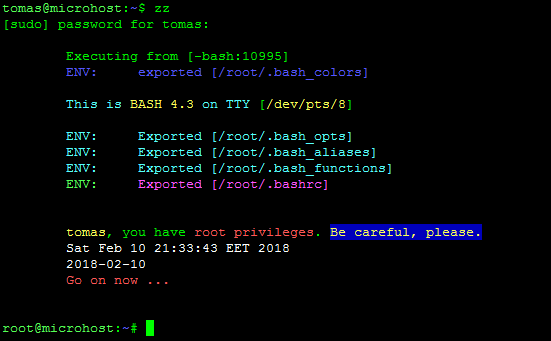
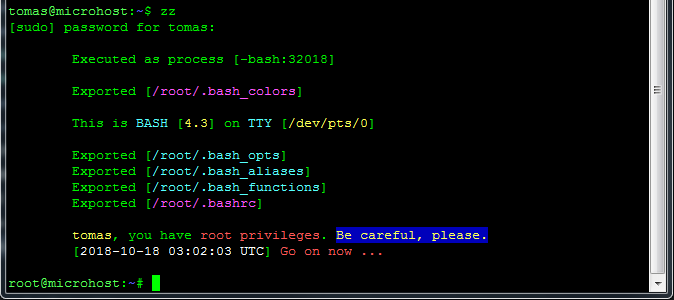
Couple of small improvements and documentation update

diff --git a/README.md b/README.md
@@ -1,27 +1,28 @@
-# Bash Files #
-
 [![Standard Version](https://img.shields.io/badge/release-standard%20version-brightgreen.svg?style=plastic)](https://github.com/conventional-changelog/standard-version)
 [![License](https://img.shields.io/badge/license-MIT-green.svg?style=flat)](https://github.com/tbaltrushaitis/bash-files/blob/master/LICENSE)
+[![Dependencies Status](https://david-dm.org/tbaltrushaitis/bash-files/status.svg)](https://david-dm.org/tbaltrushaitis/bash-files)
 [![Contributors Count](https://img.shields.io/github/contributors/tbaltrushaitis/bash-files.svg)](https://github.com/tbaltrushaitis/bash-files/graphs/contributors)
+
+# Bash Files #
 
 <p align="center">
   <img src="assets/img/bash-logo-web.png" alt="Bash Logo" />
 </p>
 
-Set of useful configuration tweak-files for OS Linux shell
+Stack of useful .bashrc configs for OS Linux shell
 
-`bash` `tips & tricks` `linux`
+`bashrc-configs` `bash-prompt` `bash-hacks` `bashrc` `bash-script` `userscripts` `tips-and-tricks` `configuration` `bash` `bash-scripting` `bash-alias` `bash-profile` `shell-scripts` `colorization` `tips-tricks` `cli-utilities` `linux-shell` `bash-utils` `bash-tool`
 
 ---
 
-### How to setup this stack of useful .bashrc configs ###
-- Installation is easy so k:koala:ala can do it
-
-#### It provides: ####
+#### Provides: ####
 - [x] colorful console output
 - [x] easy-to-remember aliases for most of commands with their top-used params
-- [x] will economize up to 70% of your keyboard input time
+- [x] up to 70% economy of your keyboard input time
 - [x] collect and gather basic system stats for fast incidents investigations
+
+### How to setup this stack of useful .bashrc configs ###
+- Installation is easy so koala can do it :koala:
 
 ---
 
@@ -39,6 +40,10 @@ $ APP_NAME=bash-files \
 $ make
 ```
 
+<div align="center">
+  <img src="assets/img/make.png" alt="Output of make command"/>
+</div>
+
 ### Setup for root ###
 ```shell
 $ make root
@@ -49,14 +54,12 @@ $ make root
 $ make all
 ```
 
-![Setup View](assets/img/make-all.png)
-
 ---
 
 ## Enjoy! ##
 
 <div align="center">
-  <img max-height="500px" max-width="500px" src="assets/img/user-login-and-sudo.png" />
+  <img max-width="675px" max-height="600px" src="assets/img/user-login-and-sudo.png" />
 </div>
 
 ---
@@ -66,28 +69,28 @@ $ make all
 <details>
   <summary>visits - Provide list of top ip-addresses extracted from given log file</summary>
   <div align="center">
-    <img src="assets/img/alias-visits.png" />
+    <img max-width="795px" max-height="792px" src="assets/img/alias-visits.png" />
   </div>
 </details>
 
 <details>
   <summary>zz - Become root</summary>
   <div align="center">
-    <img src="assets/img/alias-zz.png" />
+    <img max-width="674px" max-height="300px" src="assets/img/alias-zz.png" />
   </div>
 </details>
 
 <details>
   <summary>qq - Logout from current session</summary>
   <div align="center">
-    <img max-height="500px" max-width="500px" src="assets/img/alias-qq-logout.png" />
+    <img max-height="795px" max-width="312px" src="assets/img/alias-qq-logout.png" />
   </div>
 </details>
 
 <details>
   <summary>ii - Show basic hardware and networking information about the host</summary>
   <div align="center">
-    <img max-height="500px" max-width="500px" src="assets/img/alias-ii.png" />
+    <img max-height="683px" max-width="424px" src="assets/img/alias-ii.png" />
   </div>
 </details>
 
